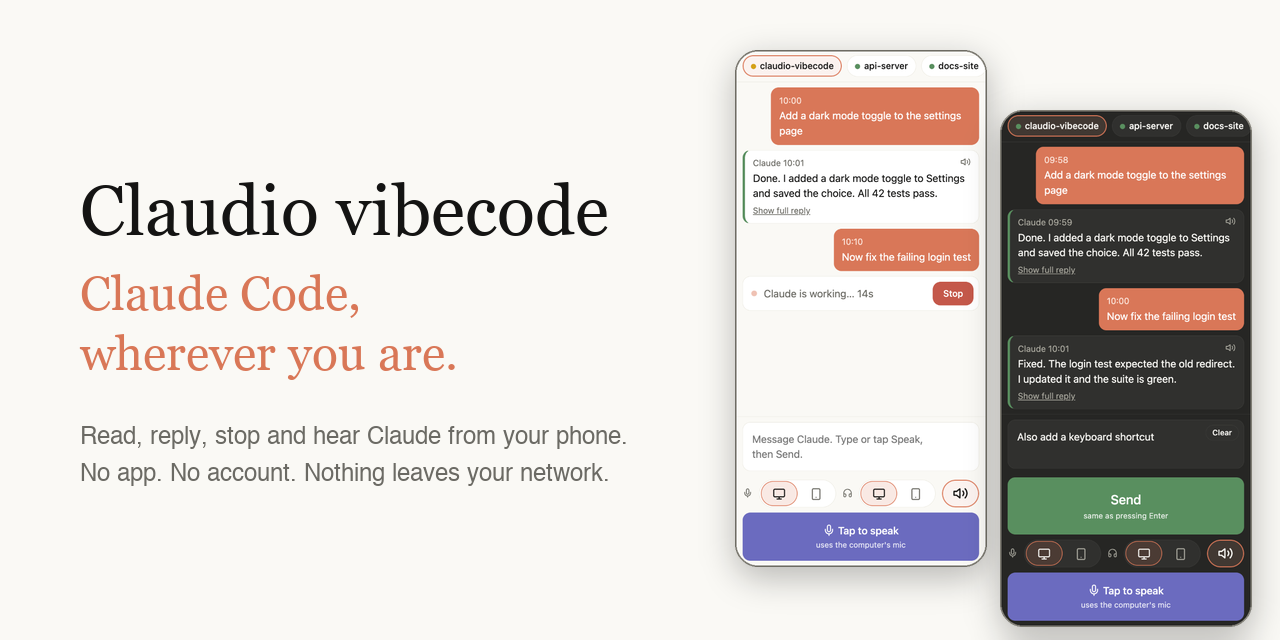
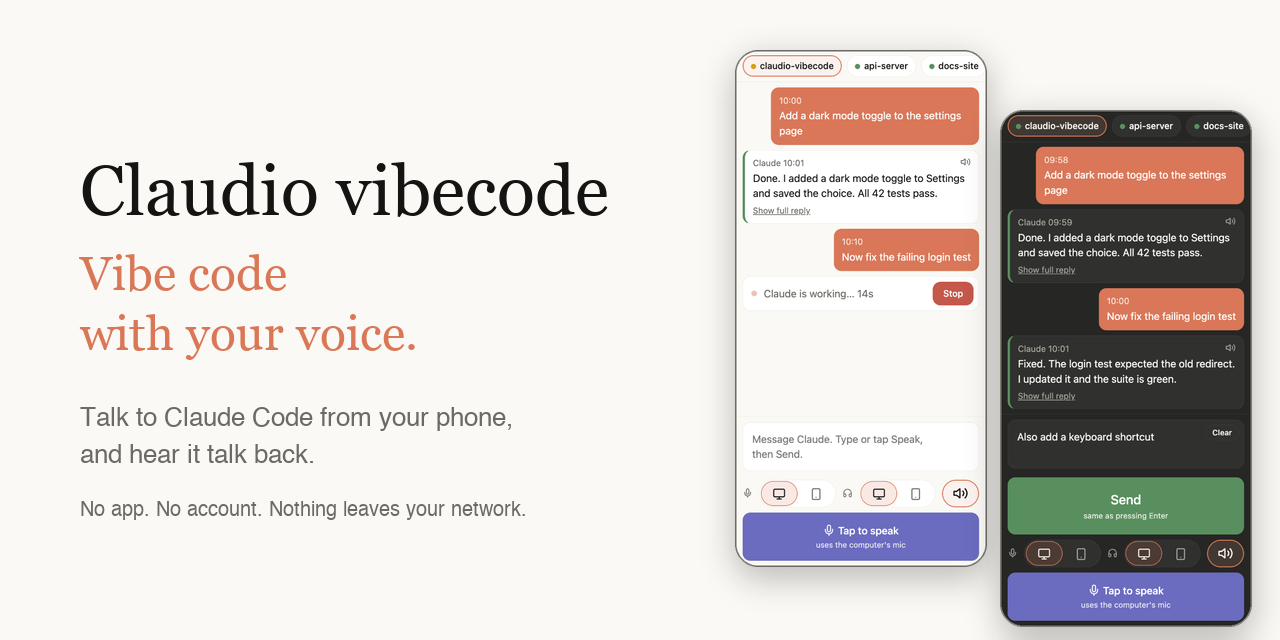
docs: lead with voice in the README and social image

Changed region(s): [[0.0625, 0.25, 0.5, 0.5938], [0.0625, 0.625, 0.5, 0.75], [0.0625, 0.7812, 0.4062, 0.8125]]

diff --git a/README.md b/README.md
@@ -2,9 +2,9 @@
 
 # Claudio vibecode
 
-### Claude Code, wherever you are.
+### Vibe code with your voice, from anywhere.
 
-Start a task at your desk. Check on it from the sofa. Answer Claude from your phone, hear its replies, and keep the work moving, without sitting at the screen.
+Talk to Claude Code from your phone, and hear it talk back. Start a task at your desk, walk away, and keep the conversation going with no keyboard and no monitor.
 
 [![CI](https://github.com/restante/claudio-vibecode/actions/workflows/ci.yml/badge.svg)](https://github.com/restante/claudio-vibecode/actions/workflows/ci.yml)
 [![License: MIT](https://img.shields.io/badge/license-MIT-green.svg)](LICENSE)
@@ -18,14 +18,23 @@ Start a task at your desk. Check on it from the sofa. Answer Claude from your ph
 
 Claude Code does its best work when you let it run. But a long task shouldn't keep you chained to the monitor.
 
-Claudio vibecode is a free, open-source remote control for Claude Code. Use Claude Code from your phone, on iPhone or Android, to read replies, answer by voice or text, and stop a task, with Claude's voice read aloud. Claude Code remote, Claude Code mobile and Claude Code voice, in one small package.
+Claudio vibecode is a free, open-source remote control for Claude Code, built around your voice. Use Claude Code from your phone, on iPhone or Android: say what you want, hear Claude's answer read aloud, and say what's next. Claude Code remote, Claude Code mobile and Claude Code voice, in one small package.
 
 It puts a small web page on your phone that is connected to the Claude Code sessions on your computer. Nothing to install on the phone, no account, and nothing leaves your network.
 
+### Voice, front and center
+
+- **Speak your prompts.** Tap **Speak**, say it, tap again. Your words land in the text box, so you can fix a word before you send. Use your phone's mic, or your computer's.
+- **Hear every reply.** Claude's short spoken summary plays as it finishes, on your phone or on your computer. Tap the speaker icon on any message to hear it again.
+- **Keep the loop going.** Speak, listen, speak. Vibe code on a walk, in the car park, or on the sofa.
+- **Choose where you talk and listen.** Mic and speakers are separate switches, each on PC or Phone.
+
+### And everything else you need
+
 - **Read** what Claude is doing, across every session you have open.
-- **Reply** by typing or by voice. Your message arrives as if you had typed it at the keyboard.
+- **Type** when talking isn't an option. Your message arrives as if you had typed it at the keyboard.
 - **Stop** a task that is going the wrong way, with one tap.
-- **Listen** to Claude's replies read aloud, on the phone or on the computer.
+- **Get notified** when Claude replies while the page is in the background.
 
 ## Install in a minute
 
